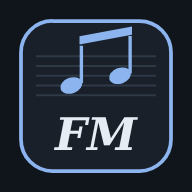
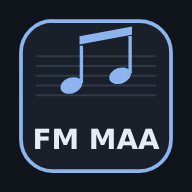
Analyse : dim7 = dominante secondaire ; grilles en lignes de 4 ; titre et icône
- Le dim7 qui va vers le IIe degré (F♯dim7 → Gm7 en F) se chiffre V7/II, avec
  une explication dans la correction (D7♭9 sans fondamentale)
- Correction d'un bug de transposition : vers une tonalité de même lettre un
  demi-ton plus bas (A → A♭), les accords n'étaient pas transposés
- Grilles (analyse, transposition, corrections) affichées en lignes de 4 mesures :
  le blues apparaît en 3 lignes de 4
- Titre en police sans empattement ; nom court de l'appli « FM MAA » et icône

Claude-Session: https://claude.ai/code/session_01Fij38AKHgwdpgSGrMsqSys

Changed region(s): [[0.1562, 0.5938, 0.8438, 0.7812]]

diff --git a/index.html b/index.html
@@ -11,7 +11,7 @@
 <link rel="apple-touch-icon" href="icones/apple-touch-icon.png">
 <link rel="preconnect" href="https://fonts.googleapis.com">
 <link rel="preconnect" href="https://fonts.gstatic.com" crossorigin>
-<link href="https://fonts.googleapis.com/css2?family=Bodoni+Moda:ital,opsz,wght@0,6..96,500;0,6..96,700;1,6..96,500&family=Atkinson+Hyperlegible:ital,wght@0,400;0,700;1,400&display=swap" rel="stylesheet">
+<link href="https://fonts.googleapis.com/css2?family=Atkinson+Hyperlegible:ital,wght@0,400;0,700;1,400&display=swap" rel="stylesheet">
 <script>try{document.documentElement.setAttribute('data-theme',localStorage.getItem('atelier-fm-theme')==='light'?'light':'dark');}catch(e){document.documentElement.setAttribute('data-theme','dark');}</script>
 <style>
 /* Même papier à musique que l'Atelier de contrepoint : encre bleu nuit, correction rouge, validation verte.
@@ -36,8 +36,8 @@
 html,body{margin:0;background:var(--paper);color:var(--ink);font-family:var(--body);font-size:17px;line-height:1.5}
 header{background:var(--sheet);border-bottom:1px solid var(--line)}
 .top{max-width:1100px;margin:0 auto;padding:18px 20px 0;display:flex;flex-wrap:wrap;gap:12px 24px;align-items:center;justify-content:space-between}
-h1{font-family:var(--display);font-weight:700;font-size:2.1rem;letter-spacing:.01em;margin:0;text-wrap:balance}
-h1 em{font-style:italic;font-weight:500;color:var(--accent)}
+h1{font-family:var(--body);font-weight:700;font-size:1.9rem;letter-spacing:0;margin:0;text-wrap:balance}
+h1 em{font-style:normal;font-weight:700;color:var(--accent)}
 .topright{display:flex;flex-wrap:wrap;gap:10px 18px;align-items:center}
 .score{font-size:.9rem;color:var(--muted);font-variant-numeric:tabular-nums}
 .score b{color:var(--ink)}
@@ -939,16 +939,16 @@ function engraveMelody(mel,sk,o2){
 const DEG={'I':[0,0,''],'IIm':[1,2,'m'],'IIIm':[2,4,'m'],'IV':[3,5,''],'V':[4,7,''],'VIm':[5,9,'m'],'VIIdim':[6,11,'dim'],
  'IMaj7':[0,0,'Maj7'],'IIm7':[1,2,'m7'],'IIIm7':[2,4,'m7'],'IVMaj7':[3,5,'Maj7'],'V7':[4,7,'7'],'VIm7':[5,9,'m7'],'VIIm7♭5':[6,11,'m7♭5'],
  'V7/II':[5,9,'7'],'V7/III':[6,11,'7'],'V7/IV':[0,0,'7'],'V7/V':[1,2,'7'],'V7/VI':[2,4,'7'],
- 'IVm6':[3,5,'m6'],'♭VII7':[6,10,'7'],'SubV7':[1,1,'7'],'♯Idim7':[0,1,'dim7']};
+ 'IVm6':[3,5,'m6'],'♭VII7':[6,10,'7'],'SubV7':[1,1,'7'],'V7/II (dim7)':[0,1,'dim7']}; // F♯dim7 en F : D7♭9 sans fondamentale, une dominante secondaire
 // Enchaînements possibles (règles d'harmonie tonale) : degré → degrés qui peuvent suivre
 const NEXT={1:{'I':['IV','V','VIm','IIm','IIIm'],'IIm':['V','V','IV'],'IIIm':['IV','VIm','IIm'],'IV':['V','I','IIm','VIm'],'V':['I','VIm','IV','I'],'VIm':['IV','IIm','V','IIIm']},
- 2:{'IMaj7':['IVMaj7','VIm7','IIm7','IIIm7','V7/VI','V7/II','V7/IV','♯Idim7','V7/V'],'IIm7':['V7','V7','SubV7'],'IIIm7':['VIm7','V7/II','IVMaj7'],
+ 2:{'IMaj7':['IVMaj7','VIm7','IIm7','IIIm7','V7/VI','V7/II','V7/IV','V7/II (dim7)','V7/V'],'IIm7':['V7','V7','SubV7'],'IIIm7':['VIm7','V7/II','IVMaj7'],
     'IVMaj7':['V7','IVm6','IIIm7','IMaj7','V7/V','♭VII7'],'V7':['IMaj7','VIm7','IMaj7'],'VIm7':['IIm7','V7/II','IVMaj7','V7/V'],
-    'V7/II':['IIm7'],'V7/V':['V7'],'V7/VI':['VIm7'],'V7/IV':['IVMaj7'],'V7/III':['IIIm7'],'IVm6':['IMaj7'],'♭VII7':['IMaj7'],'SubV7':['IMaj7'],'♯Idim7':['IIm7']}};
-const RESOLVE=['V7/II','V7/III','V7/IV','V7/V','V7/VI','SubV7','♯Idim7','IVm6','♭VII7']; // accords qui doivent se résoudre : jamais en dernier
+    'V7/II':['IIm7'],'V7/V':['V7'],'V7/VI':['VIm7'],'V7/IV':['IVMaj7'],'V7/III':['IIIm7'],'IVm6':['IMaj7'],'♭VII7':['IMaj7'],'SubV7':['IMaj7'],'V7/II (dim7)':['IIm7']}};
+const RESOLVE=['V7/II','V7/III','V7/IV','V7/V','V7/VI','SubV7','V7/II (dim7)','IVm6','♭VII7']; // accords qui doivent se résoudre : jamais en dernier
 const DICT_LV={1:[['I','IV','V'],['I','IIm','IIIm','IV','V','VIm']],
  2:[['IMaj7','IIm7','IIIm7','IVMaj7','V7','VIm7'],['IMaj7','IIm7','IIIm7','IVMaj7','V7','VIm7','V7/II','V7/V','V7/VI','V7/IV'],Object.keys(NEXT[2])]};
-const DICT_TXT={1:['Niveau 1 : I, IV et V','Niveau 2 : tous les degrés (I, IIm, IIIm, IV, V, VIm)'],2:['Niveau 1 : les accords à 4 sons de la tonalité','Niveau 2 : + dominantes secondaires','Niveau 3 : + emprunts (IVm6, ♭VII7), substitution tritonique, ♯Idim7']};
+const DICT_TXT={1:['Niveau 1 : I, IV et V','Niveau 2 : tous les degrés (I, IIm, IIIm, IV, V, VIm)'],2:['Niveau 1 : les accords à 4 sons de la tonalité','Niveau 2 : + dominantes secondaires','Niveau 3 : + emprunts (IVm6, ♭VII7), substitution tritonique, dim7 à la place d\'une dominante secondaire']};
 function genProg(cyc,len,allowed){
   for(let tries=0;tries<500;tries++){
     const start=cyc===1?(Math.random()<0.8?'I':rnd(['VIm','IV'])):(Math.random()<0.6?'IMaj7':rnd(['IIm7','IIIm7','VIm7','IVMaj7']));
@@ -983,12 +983,17 @@ function playProg(chords,dur){ if(MUTE) return; dur=dur||TEMPO[DGT]; const L=[];
   playNotes(L); }
 function playTonic(k){ const I=degChord(k,'I'); playProg([I],1.8); }
 // Grille d'accords (avec degrés dessous si on les donne)
-function chordGrid(names,degs,cls){ return `<table class="chords ${cls||''}"><tbody><tr>${names.map(c=>`<td>${c}</td>`).join('')}</tr>${degs?`<tr class="deg">${degs.map(d=>`<td>${d}</td>`).join('')}</tr>`:''}</tbody></table>`; }
+const rows4=a=>{ const r=[]; for(let i=0;i<a.length;i+=4) r.push(a.slice(i,i+4).map((x,j)=>[x,i+j])); return r; };
+function chordGrid(names,degs,cls){ return `<table class="chords ${cls||''}"><tbody>${rows4(names).map(row=>`<tr>${row.map(([c])=>`<td>${c}</td>`).join('')}</tr>${degs?`<tr class="deg">${row.map(([,i])=>`<td>${degs[i]}</td>`).join('')}</tr>`:''}`).join('')}</tbody></table>`; }
+// une grille en texte, 4 mesures par ligne (options à choisir)
+const gridText=str=>rows4(str.split('  ·  ')).map(r=>r.map(([c])=>c).join('  |  ')).join('<br>');
 // Transposition
 const KEYS_TR={maj:['C','G','D','A','E','F','B♭','E♭','A♭','D♭'],min:['Am','Em','Bm','F♯m','C♯m','Dm','Gm','Cm','Fm']};
 function parseRoot(s){ const m=s.match(/^([A-G])([♯♭]?)(.*)$/); return {n:{l:LET.indexOf(m[1]),a:m[2]==='♯'?1:m[2]==='♭'?-1:0,o:4},rest:m[3]}; }
 function parseChord(sym){ const [main,bass]=sym.split('/'); const r=parseRoot(main); return {root:r.n,q:r.rest,bass:bass?parseRoot(bass).n:null}; }
-function ivBetween(a,b){ return [((b.l-a.l)%7+7)%7, (((SEMI[b.l]+b.a)-(SEMI[a.l]+a.a))%12+12)%12]; }
+// intervalle de a vers b : [degrés-lettres, demi-tons] ; les demi-tons suivent les lettres (La → La♭ = [0, -1], et non [0, 11])
+function ivBetween(a,b){ const st=((b.l-a.l)%7+7)%7, nat=(SEMI[b.l]-SEMI[a.l]+12)%12, act=(((SEMI[b.l]+b.a)-(SEMI[a.l]+a.a))%12+12)%12;
+  let d=act-nat; if(d>6) d-=12; if(d<-6) d+=12; return [st,nat+d]; }
 const trNote=(n,iv)=>up(Object.assign({},n,{o:4}),iv[0],iv[1]);
 function trChord(sym,iv){ const c=parseChord(sym); let s=en(trNote(c.root,iv))+c.q; if(c.bass) s+='/'+en(trNote(c.bass,iv)); return s; }
 const okSpell=s=>!/(E♯|B♯|F♭|C♭|𝄪|𝄫)/.test(s);
@@ -1054,18 +1059,20 @@ function dgNew(){
   } else if(DGM==='ana'){
     let it;
     if(Math.random()<0.5){ const pool=ANA.filter(a=>a.c===CYCLE); it=rnd(pool); }
-    else { const k=rnd(keys), d=genProg(CYCLE,4); it={k,ch:d.map(l=>degChord(k,l).name),d}; }
+    else { const k=rnd(keys), d=genProg(CYCLE,4); it={k,ch:d.map(l=>degChord(k,l).name),d:d.map(l=>l==='V7/II (dim7)'?'V7/II':l)}; }
     const opts=ANAOPT[CYCLE];
     $('dgKey').textContent=`Tonalité : ${it.k} majeur`;
     $('dgQ').textContent='Indique le degré de chaque accord, puis vérifie.';
     const sel=i=>`<select id="ana${i}" aria-label="Degré de la mesure ${i+1}"><option value="">?</option>${opts.map(o=>`<option>${o}</option>`).join('')}</select>`;
-    $('dgGrid').innerHTML=`<table class="chords"><tbody><tr>${it.ch.map(c=>`<td>${c}</td>`).join('')}</tr><tr>${it.ch.map((_,i)=>`<td>${sel(i)}</td>`).join('')}</tr></tbody></table>`;
+    $('dgGrid').innerHTML=`<table class="chords"><tbody>${rows4(it.ch).map(row=>`<tr>${row.map(([c])=>`<td>${c}</td>`).join('')}</tr><tr>${row.map(([,i])=>`<td>${sel(i)}</td>`).join('')}</tr>`).join('')}</tbody></table>`;
     $('dgGrid').hidden=false;
     $('dgOpts').innerHTML='<button type="button" class="primary" id="anaCheck">Vérifier</button>';
     $('anaCheck').onclick=()=>{
       let good=0; it.d.forEach((d,i)=>{const e=$('ana'+i); const ok=e.value===d; if(ok) good++; e.classList.add(ok?'okc':'koc'); e.disabled=true;});
       const ok=good===it.d.length; bump('ana',ok); $('anaCheck').disabled=true;
-      fb('dgFb',ok,ok?'Tout est juste !':`${good} sur ${it.d.length}.`,chordGrid(it.ch,it.d));
+      // un accord dim7 chiffré V7/… : on explique qu'il remplace la dominante secondaire
+      const dimNote=it.ch.map((c,i)=>/dim7$/.test(c)&&/^V7\//.test(it.d[i])&&it.ch[i+1]?` ${c} = ${en(up(parseRoot(c).n,-2,-4))}7♭9 sans fondamentale : il joue le rôle de ${it.d[i]}, la dominante secondaire de ${it.ch[i+1]}.`:'').join('');
+      fb('dgFb',ok,ok?'Tout est juste !':`${good} sur ${it.d.length}.`,chordGrid(it.ch,it.d)+(dimNote?`<p style="margin:8px 0 0">${dimNote.trim()}</p>`:''));
     };
   } else if(DGM==='tr'){
     let src,k,label,g;
@@ -1088,7 +1095,7 @@ function dgNew(){
       $('dgKey').textContent=`Grille notée en ${k}`;
       $('dgQ').innerHTML=`Transpose ${label} en <b>${target}</b>.`;
       $('dgGrid').innerHTML=chordGrid(g); $('dgGrid').hidden=false;
-      $('dgOpts').innerHTML=`<div class="opts" style="width:100%">${shuffle(opts).map(x=>`<button type="button" class="chordopt" data-v="${x}">${x}</button>`).join('')}</div>`;
+      $('dgOpts').innerHTML=`<div class="opts" style="width:100%">${shuffle(opts).map(x=>`<button type="button" class="chordopt" data-v="${x}">${gridText(x)}</button>`).join('')}</div>`;
       $('dgOpts').querySelectorAll('button').forEach(b=>b.onclick=()=>{ const ok=answer($('dgOpts'),b,x=>x.dataset.v===opts[0],'tr');
         fb('dgFb',ok,ok?'Exact !':'Non.',`${ok?'':`<p style="margin:0 0 8px">${why[b.dataset.v]}</p>`}On garde les degrés et on change de tonique :${chordGrid(g,degs)}${chordGrid(right,degs)}<p style="margin:8px 0 0">En ${k}, ${degs.map((d,i)=>`${d} = ${g[i]}`).filter((x,i,a)=>a.indexOf(x)===i).join(', ')}. En ${target}, ces mêmes degrés donnent ${[...new Set(right)].join(', ')}.</p>`);});
       return;

diff --git a/sw.js b/sw.js
@@ -3,7 +3,7 @@
 // sur GitHub arrivent tout de suite), et on se rabat sur la copie enregistrée sans connexion.
 // Sons, icônes et polices : copie enregistrée d'abord (ils ne changent pas).
 // Si tu ajoutes ou renommes un fichier de son, ajoute-le à la liste FICHIERS et change VERSION.
-const VERSION='atelier-fm-8';
+const VERSION='atelier-fm-9';
 const FICHIERS=["./", "index.html", "contenu/contenu.js", "manifest.webmanifest", "icones/icone-192.png", "icones/icone-512.png", "sons/batterie/caisse-ghost.mp3", "sons/batterie/caisse.mp3", "sons/batterie/claves.mp3", "sons/batterie/cloche.mp3", "sons/batterie/cross-stick.mp3", "sons/batterie/hh-doux.mp3", "sons/batterie/hh-ferme.mp3", "sons/batterie/hh-ouvert.mp3", "sons/batterie/hh-pied.mp3", "sons/batterie/kick.mp3", "sons/batterie/ride-cloche.mp3", "sons/batterie/ride.mp3", "sons/piano/A1.mp3", "sons/piano/A2.mp3", "sons/piano/A3.mp3", "sons/piano/A4.mp3", "sons/piano/A5.mp3", "sons/piano/A6.mp3", "sons/piano/C2.mp3", "sons/piano/C3.mp3", "sons/piano/C4.mp3", "sons/piano/C5.mp3", "sons/piano/C6.mp3", "sons/piano/C7.mp3", "sons/piano/Ds1.mp3", "sons/piano/Ds2.mp3", "sons/piano/Ds3.mp3", "sons/piano/Ds4.mp3", "sons/piano/Ds5.mp3", "sons/piano/Ds6.mp3", "sons/piano/Fs1.mp3", "sons/piano/Fs2.mp3", "sons/piano/Fs3.mp3", "sons/piano/Fs4.mp3", "sons/piano/Fs5.mp3", "sons/piano/Fs6.mp3"];
 self.addEventListener('install',e=>{ e.waitUntil(caches.open(VERSION).then(c=>c.addAll(FICHIERS)).then(()=>self.skipWaiting())); });
 self.addEventListener('activate',e=>{ e.waitUntil(caches.keys().then(ks=>Promise.all(ks.filter(k=>k!==VERSION).map(k=>caches.delete(k)))).then(()=>self.clients.claim())); });

diff --git a/contenu/contenu.js b/contenu/contenu.js
@@ -714,10 +714,10 @@ const ANA=[
  {c:2,k:'C',ch:['CMaj7','Fm6','CMaj7','B♭7'],d:['IMaj7','IVm6','IMaj7','♭VII7']},
  {c:2,k:'C',ch:['Dm7','D♭7','CMaj7','CMaj7'],d:['IIm7','SubV7','IMaj7','IMaj7']},
  {c:2,k:'E',ch:['C♯m7','F♯7','A/B','E'],d:['VIm7','V7/V','IV/V','I']},
- {c:2,k:'F',ch:['FMaj7','F♯dim7','Gm7','C7'],d:['IMaj7','♯Idim7','IIm7','V7']},
+ {c:2,k:'F',ch:['FMaj7','F♯dim7','Gm7','C7'],d:['IMaj7','V7/II','IIm7','V7']}, // F♯dim7 = D7♭9 sans fondamentale : dominante secondaire de Gm7
  {c:2,k:'G',ch:['GMaj7','Em7','Am7','D7','Bm7','E7','Am7','D7'],d:['IMaj7','VIm7','IIm7','V7','IIIm7','V7/II','IIm7','V7']},
 ];
-const ANAOPT={1:['I','IIm','IIIm','IV','V','VIm','VIIdim'],2:['IMaj7','IIm7','IIIm7','IVMaj7','V7','VIm7','VIIm7♭5','V7/II','V7/III','V7/IV','V7/V','V7/VI','IVm6','♭VII7','SubV7','♯Idim7','IV/V','I']};
+const ANAOPT={1:['I','IIm','IIIm','IV','V','VIm','VIIdim'],2:['IMaj7','IIm7','IIIm7','IVMaj7','V7','VIm7','VIIm7♭5','V7/II','V7/III','V7/IV','V7/V','V7/VI','IVm6','♭VII7','SubV7','IV/V','I']};
 // Transposer : grilles de morceaux (k = tonalité de la grille ; « m » pour une tonalité mineure)
 const TRANSPO=[
  {c:1,t:"La Bamba",a:"Ritchie Valens",k:'C',g:['C','F','G','F']},

diff --git a/README.md b/README.md
@@ -55,4 +55,4 @@ Voir **[CONTRIBUER.md](CONTRIBUER.md)** : pas besoin d'être développeur.
 - Glyphes musicaux (clé de sol, altérations, silences) : tracés issus de la police GNU FreeFont (FreeSerif), utilisés selon son exception de police.
 - Piano : **Salamander Grand Piano V3**, par Alexander Holm, licence [CC BY 3.0](https://creativecommons.org/licenses/by/3.0/) (https://archive.org/details/SalamanderGrandPianoV3), dans la version MP3 du projet Tone.js. Notes raccourcies et passées en mono.
 - Batterie, claves et cloche : **Virtuosity Drums** (batteur : Austin McMahon), licence CC0 (https://github.com/sfzinstruments/virtuosity_drums). Mélangés, raccourcis et convertis en MP3.
-- Polices : Bodoni Moda (titre) et Atkinson Hyperlegible (Google Fonts, licence SIL OFL) ; accords et degrés en Verdana (police du système).
+- Polices : Atkinson Hyperlegible (Google Fonts, licence SIL OFL) ; accords et degrés en Verdana (police du système).
